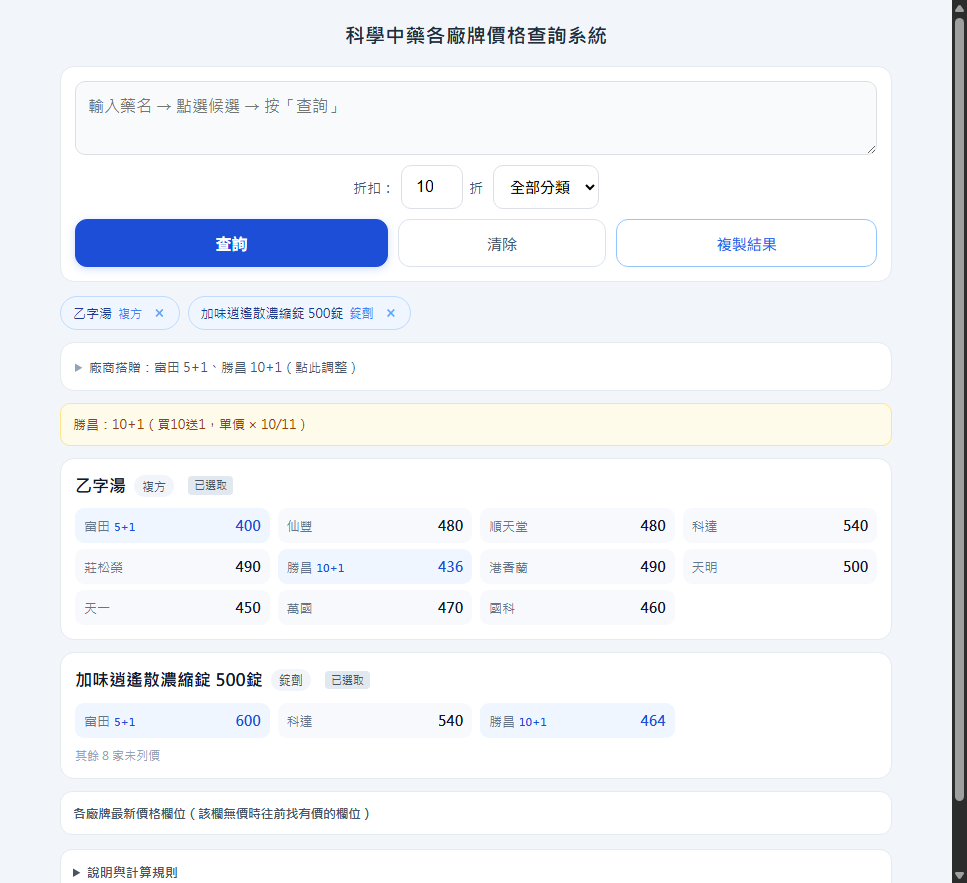
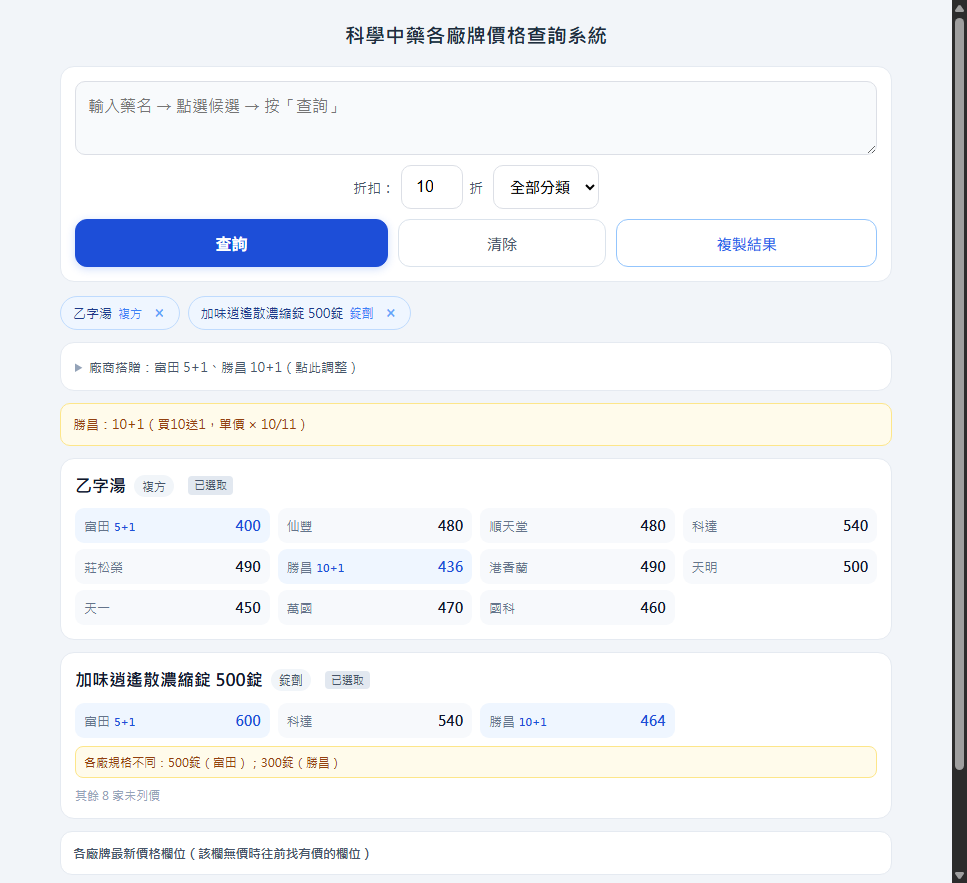
修正使用者情境問題：分類提示同步、候選清單不遮按鈕、空白分隔多筆、折扣提示、各廠規格提醒

Changed region(s): [[0.062, 0.8256, 0.8997, 1.0], [0.9617, 0.8562, 1.0, 0.9173]]

diff --git a/index.html b/index.html
@@ -349,6 +349,14 @@
             background: #f8fafc;
         }
         #searchInput:focus { background: #fff; border-color: #3b82f6; box-shadow: 0 0 0 3px rgba(59, 130, 246, .12); }
+        /* 候選清單改成「往下推版面」而不是浮在按鈕上，避免蓋住「查詢」導致點錯 */
+        .suggest-list {
+            position: static;
+            margin-top: 8px;
+            max-height: 260px;
+            border-radius: 12px;
+            box-shadow: none;
+        }
         .control-row { display: flex; align-items: center; gap: 10px; }
         .discount-wrap { display: flex; align-items: center; gap: 6px; font-size: 14px; color: #475569; }
         .discount-input {
@@ -443,6 +451,16 @@
         .price-cell.gift { background: #eff6ff; }
         .price-cell.gift .v { color: #1d4ed8; }
         .item-more { margin-top: 8px; font-size: 12px; color: #94a3b8; }
+        .item-spec {
+            margin-top: 8px;
+            padding: 6px 8px;
+            font-size: 12px;
+            line-height: 1.5;
+            color: #92400e;
+            background: #fffbeb;
+            border: 1px solid #fde68a;
+            border-radius: 8px;
+        }
         @media (min-width: 480px) {
             .price-grid { grid-template-columns: repeat(3, minmax(0, 1fr)); }
         }
@@ -578,6 +596,7 @@
         let selectedItems = []; // 使用者從候選清單點選的品項（查詢清單）
         let queryRows = null;   // 上次按「查詢」的結果；null 表示還沒查過
         let queryState = { notFound: [], ambiguous: [] };
+        let lastQueryHint = '';  // 上一次按「查詢」算出的完整提示（切換分類時要還原）
         let discount = 10; // 預設10折（無折扣）
         // 每家廠商各自的搭贈方式：'origin'（原價，不套搭贈）／'5+1'／'10+1'
         let factoryModes = {};
@@ -1004,6 +1023,14 @@
 
             const missing = FACTORIES.filter(function(f) { return !cols[f] || cols[f].length === 0; });
 
+            // 各廠規格（錠數／克數）通常寫在廠牌表頭後面，例如「富田 2026.11.01價格 500錠」
+            const factorySpecs = {};
+            FACTORIES.forEach(function(f) {
+                if (!cols[f] || !cols[f].length) return;
+                const m = String(cols[f][0].label).match(SPEC_REG);
+                if (m) factorySpecs[f] = m[1].replace(/\s+/g, '');
+            });
+
             const data = rows.slice(hi + 1).map(function(r) {
                 const priceObj = {};
                 FACTORIES.forEach(function(f) {
@@ -1030,6 +1057,7 @@
                     name: name.replace(/\s+/g, ' ').trim(),
                     core: parts.core,
                     spec: parts.spec,
+                    factorySpecs: factorySpecs,
                     prices: priceObj
                 };
             }).filter(function(item) { return item.name !== ''; });
@@ -1338,8 +1366,49 @@
             setHint(factory + '：' + (mode === 'origin' ? '原價' : mode) + '（' + modeHint(mode) + '）');
         }
 
+        // 分類篩選後要顯示的提示：說清楚「篩選後剩幾筆」與原本的完整提示
+        function filteredHint(category, total, shown) {
+            if (category === 'all') return lastQueryHint || '';
+            const head = shown === 0
+                ? '分類「' + category + '」沒有已選的品項（已選 ' + total + ' 筆在其他分類）'
+                : '分類「' + category + '」：' + shown + ' / ' + total + ' 筆';
+            return lastQueryHint ? head + '｜' + lastQueryHint : head;
+        }
+
         // 只渲染「按查詢」之後的結果；打字階段不再即時列出大量品項
         // 折扣、分類、各廠搭贈變動時也走這裡，用同一份查詢結果重算
+        // 各廠規格（錠數／克數）不同時提醒，避免拿 500 錠的價跟 300 錠的價直接比
+        function specGroupsOf(item) {
+            const specs = item.factorySpecs || {};
+            const groups = {};
+            FACTORIES.forEach(function(f) {
+                const s = specs[f];
+                if (!s) return;
+                const v = item.prices[f];
+                if (v === null || v === undefined || v === '') return;  // 沒列價的廠不用提
+                if (!groups[s]) groups[s] = [];
+                groups[s].push(f);
+            });
+            const keys = Object.keys(groups);
+            return keys.length >= 2 ? keys.map(function(s) { return { spec: s, factories: groups[s] }; }) : [];
+        }
+
+        function specNoteHtml(item) {
+            const groups = specGroupsOf(item);
+            if (!groups.length) return '';
+            return '<div class="item-spec">各廠規格不同：' + groups.map(function(g) {
+                return g.spec + '（' + g.factories.join('、') + '）';
+            }).join('；') + '</div>';
+        }
+
+        function specNoteText(item) {
+            const groups = specGroupsOf(item);
+            if (!groups.length) return '';
+            return '各廠規格不同：' + groups.map(function(g) {
+                return g.spec + '（' + g.factories.join('、') + '）';
+            }).join('；');
+        }
+
         function renderTable() {
             const category = document.getElementById('categorySelect').value;
             const list = document.getElementById('resultList');
@@ -1347,6 +1416,7 @@
 
             if (queryRows === null) {
                 lastRows = [];
+                lastQueryHint = '';
                 list.innerHTML = '<div class="result-empty">' +
                     (allData.length
                         ? '輸入藥名 → 從候選清單點選品項 → 按「查詢」列出結果（可一次多筆）'
@@ -1374,6 +1444,7 @@
                     msg = '目前分類下沒有符合的品項';
                 }
                 list.innerHTML = '<div class="result-empty">' + msg + '</div>';
+                setHint(filteredHint(category, queryRows.length, 0));
                 return;
             }
 
@@ -1419,6 +1490,7 @@
                 });
 
                 html += '</div>';
+                html += specNoteHtml(item);
                 if (emptyCount === FACTORIES.length) {
                     html += '<div class="item-more">此品項各廠皆未列價</div>';
                 } else if (emptyCount > 0) {
@@ -1428,6 +1500,7 @@
             });
 
             list.innerHTML = html;
+            setHint(filteredHint(category, queryRows.length, filtered.length));
         }
 
         // ===== 複製查詢結果（LINE 好讀的區塊格式：每家廠牌並排對齊）=====
@@ -1483,6 +1556,8 @@
                 const lines = [title];
                 const summary = modeSummary();
                 if (summary !== '全部原價') lines.push('（搭贈：' + summary + '）');
+                const specNote = specNoteText(item);
+                if (specNote) lines.push('（' + specNote + '）');
                 for (let i = 0; i < cells.length; i += CELL_PER_LINE) {
                     lines.push(cells.slice(i, i + CELL_PER_LINE).join('\u3000'));
                 }
@@ -1719,7 +1794,20 @@
         function runQuery() {
             hideSuggest();
             const input = document.getElementById('searchInput');
-            const tokens = splitQueryTokens(input.value);
+            const rawTokens = splitQueryTokens(input.value);
+            // 「乙字湯 桂枝湯」這種用空白隔開的多筆：每個片段都各自命中時才拆開，
+            // 否則保留原字串（例如「桂枝湯 200g」的規格不能被拆掉）
+            const tokens = [];
+            rawTokens.forEach(function(t) {
+                if (!/\s/.test(t)) { tokens.push(t); return; }
+                const parts = t.split(/\s+/).filter(function(p) { return p.length >= 2; });
+                const allHit = parts.length >= 2 && parts.every(function(p) {
+                    const h = searchRows(p);
+                    return h.length > 0 && h[0].score >= 9000;
+                });
+                if (allHit) parts.forEach(function(p) { tokens.push(p); });
+                else tokens.push(t);
+            });
             const notFound = [];
             const ambiguous = [];
             const scoreByKey = {};
@@ -1754,9 +1842,6 @@
             // 已自動帶入的文字從輸入框移除；還沒選的（多筆符合、查無）留在框裡讓使用者處理
             input.value = ambiguous.map(function(a) { return a.token; }).join('\n');
 
-            renderChips();
-            renderTable();
-
             const parts = [];
             if (queryRows.length > 0) parts.push('已列出 ' + queryRows.length + ' 筆品項');
             if (ambiguous.length > 0) {
@@ -1770,7 +1855,11 @@
             if (queryRows.length === 0 && ambiguous.length === 0 && notFound.length === 0) {
                 parts.push('請先輸入藥名並點選候選品項');
             }
-            setHint(parts.join('｜'));
+            lastQueryHint = parts.join('｜');
+
+            renderChips();
+            renderTable();
+            setHint(lastQueryHint);
         }
 
         // ===== 事件監聽 =====
@@ -1812,6 +1901,8 @@
             const v = parseFloat(e.target.value);
             discount = (isNaN(v) || v <= 0) ? 10 : Math.min(v, 10);
             renderTable();
+            // 輸入 0 或空白時仍以 10 折計算，講明避免使用者以為套用了 0 折
+            if (isNaN(v) || v <= 0) setHint('折扣請輸入 1～10（目前以 10 折計算）');
         });
 
         // 搭贈面板的每廠 select 由 buildGiftPanel() 綁定（見 setFactoryMode）

diff --git a/verify.js b/verify.js
@@ -49,7 +49,7 @@ const api = new Function(
     'scoreExactTier, scoreFuzzyTier, editSimilarity, levenshteinDistance, uniqueCharMatchScore, SAMPLE_CSV_TEXT, ' +
     'getSuggestions, escapeHtml, splitQueryTokens, lastTokenInfo, rowsToText, modeLabel, ' +
     'mergeSheets, SHEETS, commitData, runQuery, addSelected, addSelectedByName, removeSelected, ' +
-    'clearSelected, renderChips, findItem, clearAll, ' +
+    'clearSelected, renderChips, findItem, clearAll, renderTable, specNoteText, ' +
     'getQueryRows: function() { return queryRows; }, ' +
     'getSelected: function() { return selectedItems.slice(); }, ' +
     'getDiscount: function() { return discount; }, ' +
@@ -513,6 +513,59 @@ check('合併後可查到丸劑品項（左歸丸）',
 check('合併後可查到錠劑品項（加味逍遙散）', api.searchRows('加味逍遙散').length >= 1);
 check('合併後分類篩選可運作',
     api.searchRows('六味地黃丸').every(function(r) { return r.item.category === '丸劑'; }));
+
+// ---------- 15. 使用者情境（空白分隔／分類提示／規格提醒）----------
+api.applyCsv(api.SAMPLE_CSV_TEXT, '內建示範資料', true);
+check('空白分隔：兩個完整藥名各自命中',
+    api.searchRows('桂枝湯').length === 1 && api.searchRows('炙甘草湯')[0].score >= 9000);
+check('空白分隔：含規格的品項不會被拆成兩筆',
+    api.searchRows('桂枝湯 200g').length === 1 &&
+    api.searchRows('桂枝湯 200g')[0].item.name === '桂枝湯 200g',
+    api.searchRows('桂枝湯 200g').length + ' 筆');
+
+api.setState('origin', 10);
+api.clearSelected();
+els.searchInput.value = '桂枝湯 炙甘草湯';
+api.runQuery();
+check('空白分隔：貼「桂枝湯 炙甘草湯」按查詢會列出 2 筆',
+    api.getQueryRows().length === 2 && api.getSelected().length === 2,
+    'rows=' + api.getQueryRows().length);
+
+api.clearSelected();
+els.searchInput.value = '桂枝湯 200g';
+api.runQuery();
+check('空白分隔：貼「桂枝湯 200g」仍只有 1 筆（規格被保留）',
+    api.getQueryRows().length === 1 &&
+    api.getSelected()[0].name === '桂枝湯 200g',
+    api.getSelected().map(function(x) { return x.name; }).join('/'));
+
+// 分類切換後的提示要跟著更新
+api.clearSelected();
+els.searchInput.value = '桂枝湯 200g\n大黃 100g';
+api.runQuery();
+els.categorySelect.value = '單方';
+api.renderTable();
+check('分類提示：切到單方時提示寫出篩選筆數',
+    els.matchHint.textContent.indexOf('分類「單方」：1 / 2 筆') !== -1,
+    els.matchHint.textContent);
+els.categorySelect.value = '錠劑';
+api.renderTable();
+check('分類提示：該分類沒有品項時講清楚「沒有已選的品項」',
+    els.matchHint.textContent.indexOf('沒有已選的品項') !== -1,
+    els.matchHint.textContent);
+check('分類提示：切回全部分類會還原原本提示',
+    (function() {
+        els.categorySelect.value = 'all';
+        api.renderTable();
+        return els.matchHint.textContent.indexOf('已列出 2 筆品項') !== -1;
+    })(), els.matchHint.textContent);
+
+// 各廠規格不同時的提醒（錠劑 500 錠 vs 300 錠）
+const specText = api.specNoteText(pill.data[0]);
+check('規格提醒：錠劑 500 錠與 300 錠不同會提醒',
+    specText.indexOf('500錠') !== -1 && specText.indexOf('300錠') !== -1, specText);
+check('規格提醒：規格一致（丸劑只有勝昌）不顯示',
+    api.specNoteText(wan.data[0]) === '', api.specNoteText(wan.data[0]));
 
 // 還原成示範資料
 api.applyCsv(api.SAMPLE_CSV_TEXT, '內建示範資料', true);

diff --git a/README.md b/README.md
@@ -21,7 +21,7 @@
 | `sample-data.csv` | 示範資料，僅用於驗證畫面與計算，**非實際牌價** |
 | `data.csv` | 你自己的實際資料（需自行放入，見下方「資料來源」） |
 | `start.bat` | 本機測試用：啟動僅綁定 127.0.0.1 的靜態伺服器並開啟瀏覽器 |
-| `verify.js` | 邏輯驗證腳本（`node verify.js`，140 項檢查） |
+| `verify.js` | 邏輯驗證腳本（`node verify.js`，149 項檢查） |
 
 ## 使用方式
 
@@ -35,10 +35,13 @@
   **折扣與各廠搭贈設定會保留**（方便換一批藥名再查，不用重設 5+1／10+1）。
 - **自動帶入的規則**：某段文字只命中唯一一個品項（例如打完整藥名）時按「查詢」會自動帶入；
   命中多筆（例如只打「地黃」）時**不猜**，提示列會寫「待選取：…有 N 筆符合」，請從候選清單點選。
-- 一次貼多筆文字也可以：每行一筆，或用逗號、頓號、分號分隔；查無的品項會列在提示列。
+- 一次貼多筆文字也可以：每行一筆，或用逗號、頓號、分號分隔，**同一行用空白隔開兩個完整藥名也會拆開查**
+  （例如「乙字湯 桂枝湯」→ 2 筆）；「桂枝湯 200g」這種含規格的寫法不會被拆開。查無的品項會列在提示列。
 - 候選清單只針對「最後一段」文字；用 ↑↓ 選取後按 Enter 加入清單，直接按 Enter 則是換行。
+- **候選清單不會蓋住按鈕**：清單出現時是把下方內容往下推，不會浮在「查詢」上面造成點錯。
 - **首頁不預先列出全部品項**：還沒查詢時只顯示操作提示（資料仍在背景載入）。
-- **分類篩選**：下拉可切「複方／單方／錠劑／丸劑」或全部分類，只篩選已查詢的品項。
+- **分類篩選**：下拉可切「複方／單方／錠劑／丸劑」或全部分類，只篩選已查詢的品項；
+  切換後提示列會寫「分類『單方』：1 / 2 筆」，該分類沒有已選品項時也會講明（不會出現「已列出 2 筆」卻空畫面）。
 
 ### 每家廠商各自的搭贈（5+1／10+1）
 
@@ -54,8 +57,12 @@
 - 每個品項一張卡片：品名＋分類＋符合度標籤，下方是「廠牌／價格」網格
   （手機 2 欄、≥480px 3 欄、≥900px 4 欄），不用再左右捲動寬表格。
 - 該品項沒列價的廠商不佔格子，卡片底部註明「其餘 N 家未列價」。
+- **各廠規格不同時會提醒**：錠劑的錠數／克數寫在廠牌表頭（例如富田 500 錠、勝昌 300 錠），
+  同一品項的廠牌規格不一致時，卡片上會多一行「各廠規格不同：500錠（富田）；300錠（勝昌）」，
+  避免拿 500 錠的價直接跟 300 錠的價比。
 - 輸入框 16px、按鈕 48px 高、下拉 44px 高，符合手機操作尺寸；「各廠牌最新價格欄位」
   與「說明與計算規則」改成可收合的區塊，避免手機一開頁就落落長。
+- 折扣輸入 0 或清空時不會套用 0 折（仍以 10 折計算），提示列會寫「折扣請輸入 1～10」。
 
 ### 複製查詢結果
 
@@ -65,6 +72,7 @@
 - 排版為 **LINE 好讀的區塊格式**：每筆品項一行標題，下面每行 2 家廠牌，
   廠牌名稱用全角空格補齊欄寬、價格右靠，**在 LINE 這種非等寬字型下也能對齊**
 - 沒有價格的廠牌不列出，貼到 LINE 或記事本不會多出空白欄位
+- 各廠規格不同時，標題下方會多一行「（各廠規格不同：500錠（富田）；300錠（勝昌））」
 - 多筆品項之間空一行，方便分段閱讀
 
 範例：
@@ -182,7 +190,7 @@
 
 ## 已驗證項目
 
-以 `node verify.js` 實跑頁面內邏輯，**140 項全數通過**，涵蓋：
+以 `node verify.js` 實跑頁面內邏輯，**149 項全數通過**，涵蓋：
 
 - **查詢流程**：未查詢只顯示提示卡、點選候選後查詢才列出結果、人工點選標「已選取」、
   重複點選不重複加入、移除標籤後結果同步、唯一命中自動帶入、
@@ -207,6 +215,8 @@
 - 卡片渲染（千分位、文字值、符合度標籤、無價廠商不列格）、提示訊息、分類篩選
 - 輸入預選清單（候選數量、排序、空查詢不顯示、上限、HTML 轉義）
 - **清除按鈕**：清空輸入框與查詢清單、結果回到提示卡、折扣與各廠搭贈設定不被重設、清除後再查舊設定仍生效
+- **使用者情境**：同一行用空白隔開兩個藥名會拆成 2 筆、含規格的「桂枝湯 200g」不被拆開、
+  分類切換後提示筆數同步（含該分類沒有已選品項的情況）、各廠錠數不同時顯示規格提醒
 - **複製結果**：品名標題、廠牌跳過無價者、欄寬對齊、多筆之間空行、數字換算（折扣與搭贈套用後輸出）
 
 以瀏覽器實測（接真實 Google 試算表 4 張分頁，**1079 筆品項**）：
